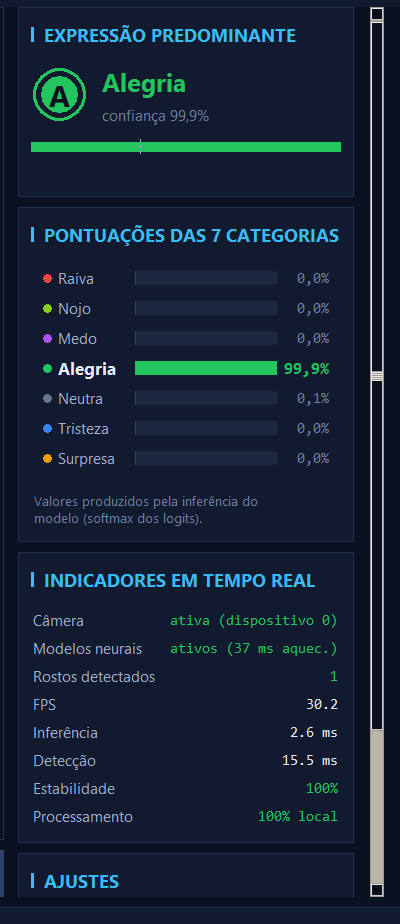
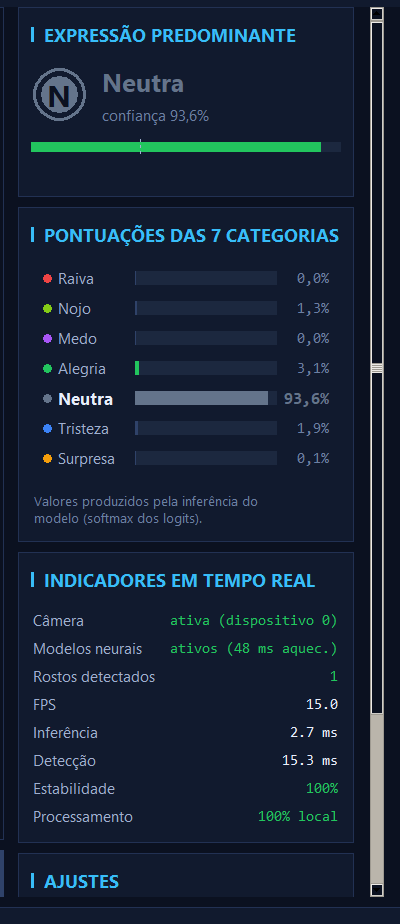
fix(desempenho): inferir_a_cada volta a 2 - decisao por medicao
Eu tinha mudado para 1 justificando que a inferencia (~19 ms) cabia no
orcamento de 33 ms de uma camera a 30 FPS. O raciocinio estava incompleto:
ignorava que a thread de captura e a de renderizacao disputam CPU.

Medido no aplicativo real, nas capturas do banner:
  inferir_a_cada = 1  ->  15 a 25 FPS (oscila, video menos suave)
  inferir_a_cada = 2  ->  30,2 FPS constantes

Com 2, a expressao e reavaliada a cada ~66 ms em vez de ~40 ms - diferenca
impercevivel ao olho, enquanto a perda de fluidez e bem visivel. Para uma
demonstracao ao vivo, video fluido vale mais.

O comentario no codigo registra a medicao, para que a decisao nao seja
revertida por quem refizer a mesma conta isolada.

diff --git a/src/expressao_neural/config.py b/src/expressao_neural/config.py
@@ -89,10 +89,19 @@ class Ajustes:
     altura_captura: int = 480
     fps_alvo: int = 30
     # Executa a inferencia a cada N quadros capturados (1 = todos os quadros).
-    # 1 por padrao: o ciclo completo medido (~26 ms) cabe no intervalo de 33 ms
-    # de uma camera a 30 FPS, entao nao ha motivo para pular quadros. Pular
-    # introduzia atraso perceptivel em expressoes rapidas.
-    inferir_a_cada: int = 1
+    #
+    # 2 por padrao, decidido por MEDICAO e nao por calculo. A conta isolada
+    # sugeria que 1 caberia: inferencia de ~19 ms dentro do orcamento de 33 ms
+    # de uma camera a 30 FPS. Mas essa conta ignora que a thread de captura e a
+    # de renderizacao disputam CPU. Medido no aplicativo real:
+    #
+    #     inferir_a_cada = 1  ->  15 a 25 FPS (oscila, video menos suave)
+    #     inferir_a_cada = 2  ->  30,2 FPS constantes
+    #
+    # Com 2, a expressao e reavaliada a cada ~66 ms em vez de ~40 ms --
+    # diferenca impercevivel ao olho, enquanto a perda de fluidez do video e
+    # bem visivel. Ajustavel na interface.
+    inferir_a_cada: int = 2
     # 0,35 em vez de 0,50: expressoes NATURAIS (sorriso leve, surpresa discreta)
     # costumam vencer com 35-55% de confianca. Com o limiar em 0,50 a previsao
     # correta do modelo era rotulada "Indefinida", obrigando o usuario a exagerar
